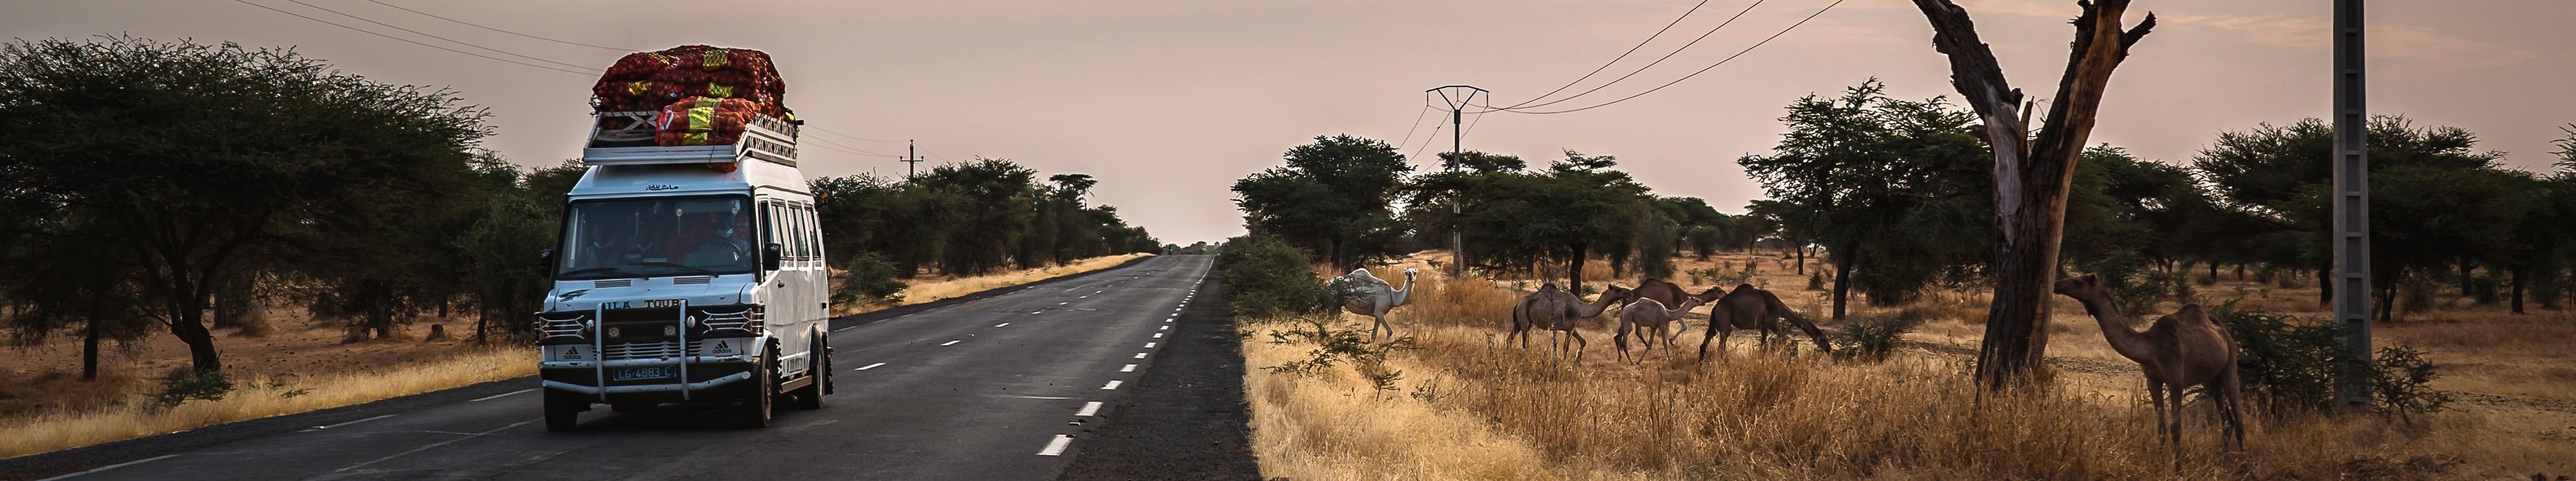
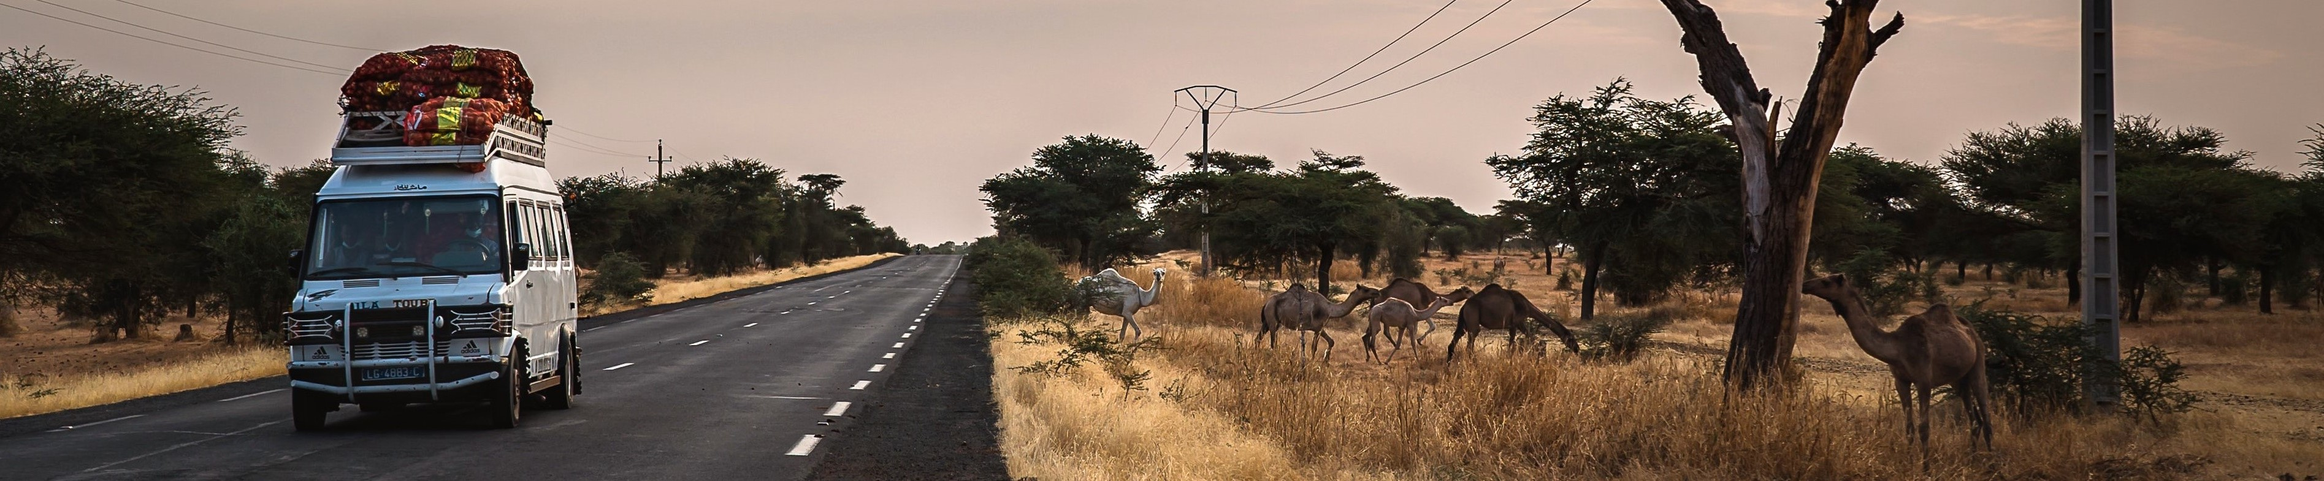
search

diff --git a/src/main/webapp/app/home/home.component.html b/src/main/webapp/app/home/home.component.html
@@ -2,14 +2,26 @@
   <p class="voyages-en-bus font-weight-bold" style="position: relative; top:65%">Voyages en bus pas chers à
     partir de 5000 FCFA</p>
    
-  <div class="col-md-11 shadow bg-white mt-5" style="position: relative; left: 5%; top:65%">
+  <div class="col-md-11 shadow bg-white mt-5" style="position: relative; left: 5%; top:55%">
+
     <form name="editForm" role="form" novalidate [formGroup]="editForm">
       <div class="form-group" [hidden]="!editForm.get('id')!.value">
         <label for="id" jhiTranslate="global.field.id">ID</label>
         <input type="text" class="form-control" id="id" name="id" formControlName="id" readonly />
       </div>
-
-      <div class="row justify-content-center pt-2">
+      <div class="row ml-1 pt-2">
+        <div class="form-check form-check-inline">
+          <label class="form-check-label">
+            <input class="form-check-input" type="radio" name="" id="" value="checkedValue"> Aller Simple
+          </label>
+        </div>
+        <div class="form-check form-check-inline">
+          <label class="form-check-label">
+            <input class="form-check-input" type="radio" name="" id="" value="checkedValue"> Aller Retour
+          </label>
+        </div>
+      </div>
+      <div class="row pt-2">
 
         <div class="col-md-2">
           <div class="input-group">
@@ -29,7 +41,7 @@
             </select>
           </div>
         </div>
-        <fa-icon icon="exchange-alt" style="position: relative; top: 10px;"></fa-icon>
+        <div class="col-md-1"><fa-icon icon="exchange-alt" class="fa-2x"></fa-icon></div>
         <div class="col-md-2">
           <div class="input-group">
             <div class="input-group-prepend">

diff --git a/src/main/webapp/app/home/home.component.scss b/src/main/webapp/app/home/home.component.scss
@@ -68,7 +68,7 @@ Main page styles
   vertical-align: middle;
   background: url('../../content/images/voyageimg.jpg') no-repeat;
   background-size: cover;
-  background-color: rgba(0, 0, 0, 0.4);
+  background-color: rgba(0, 0, 0, 1);
   text-align: center;
 }
 
